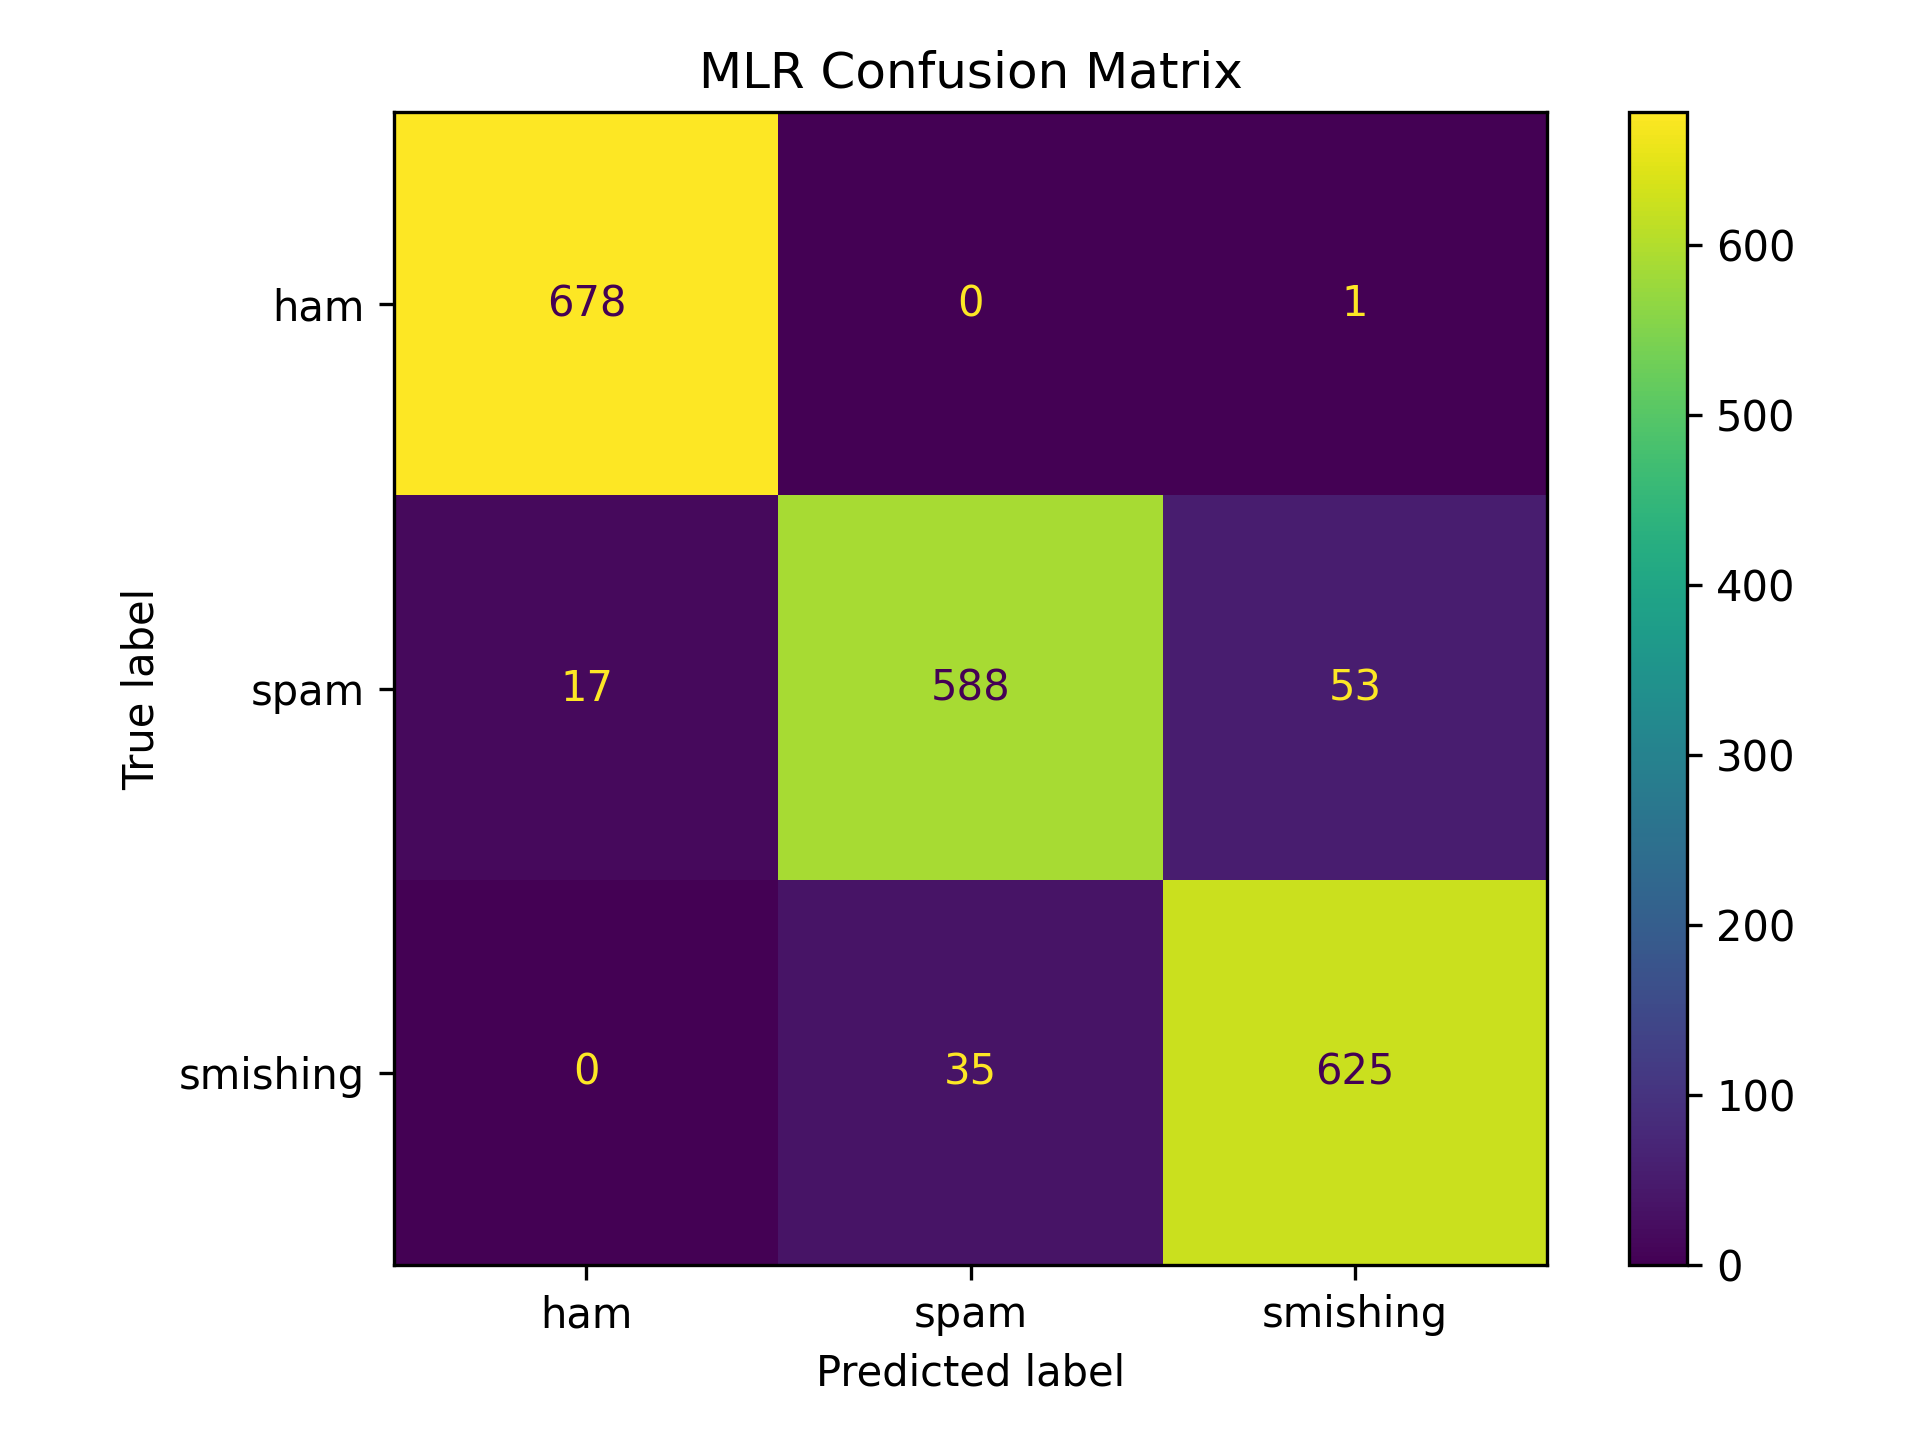
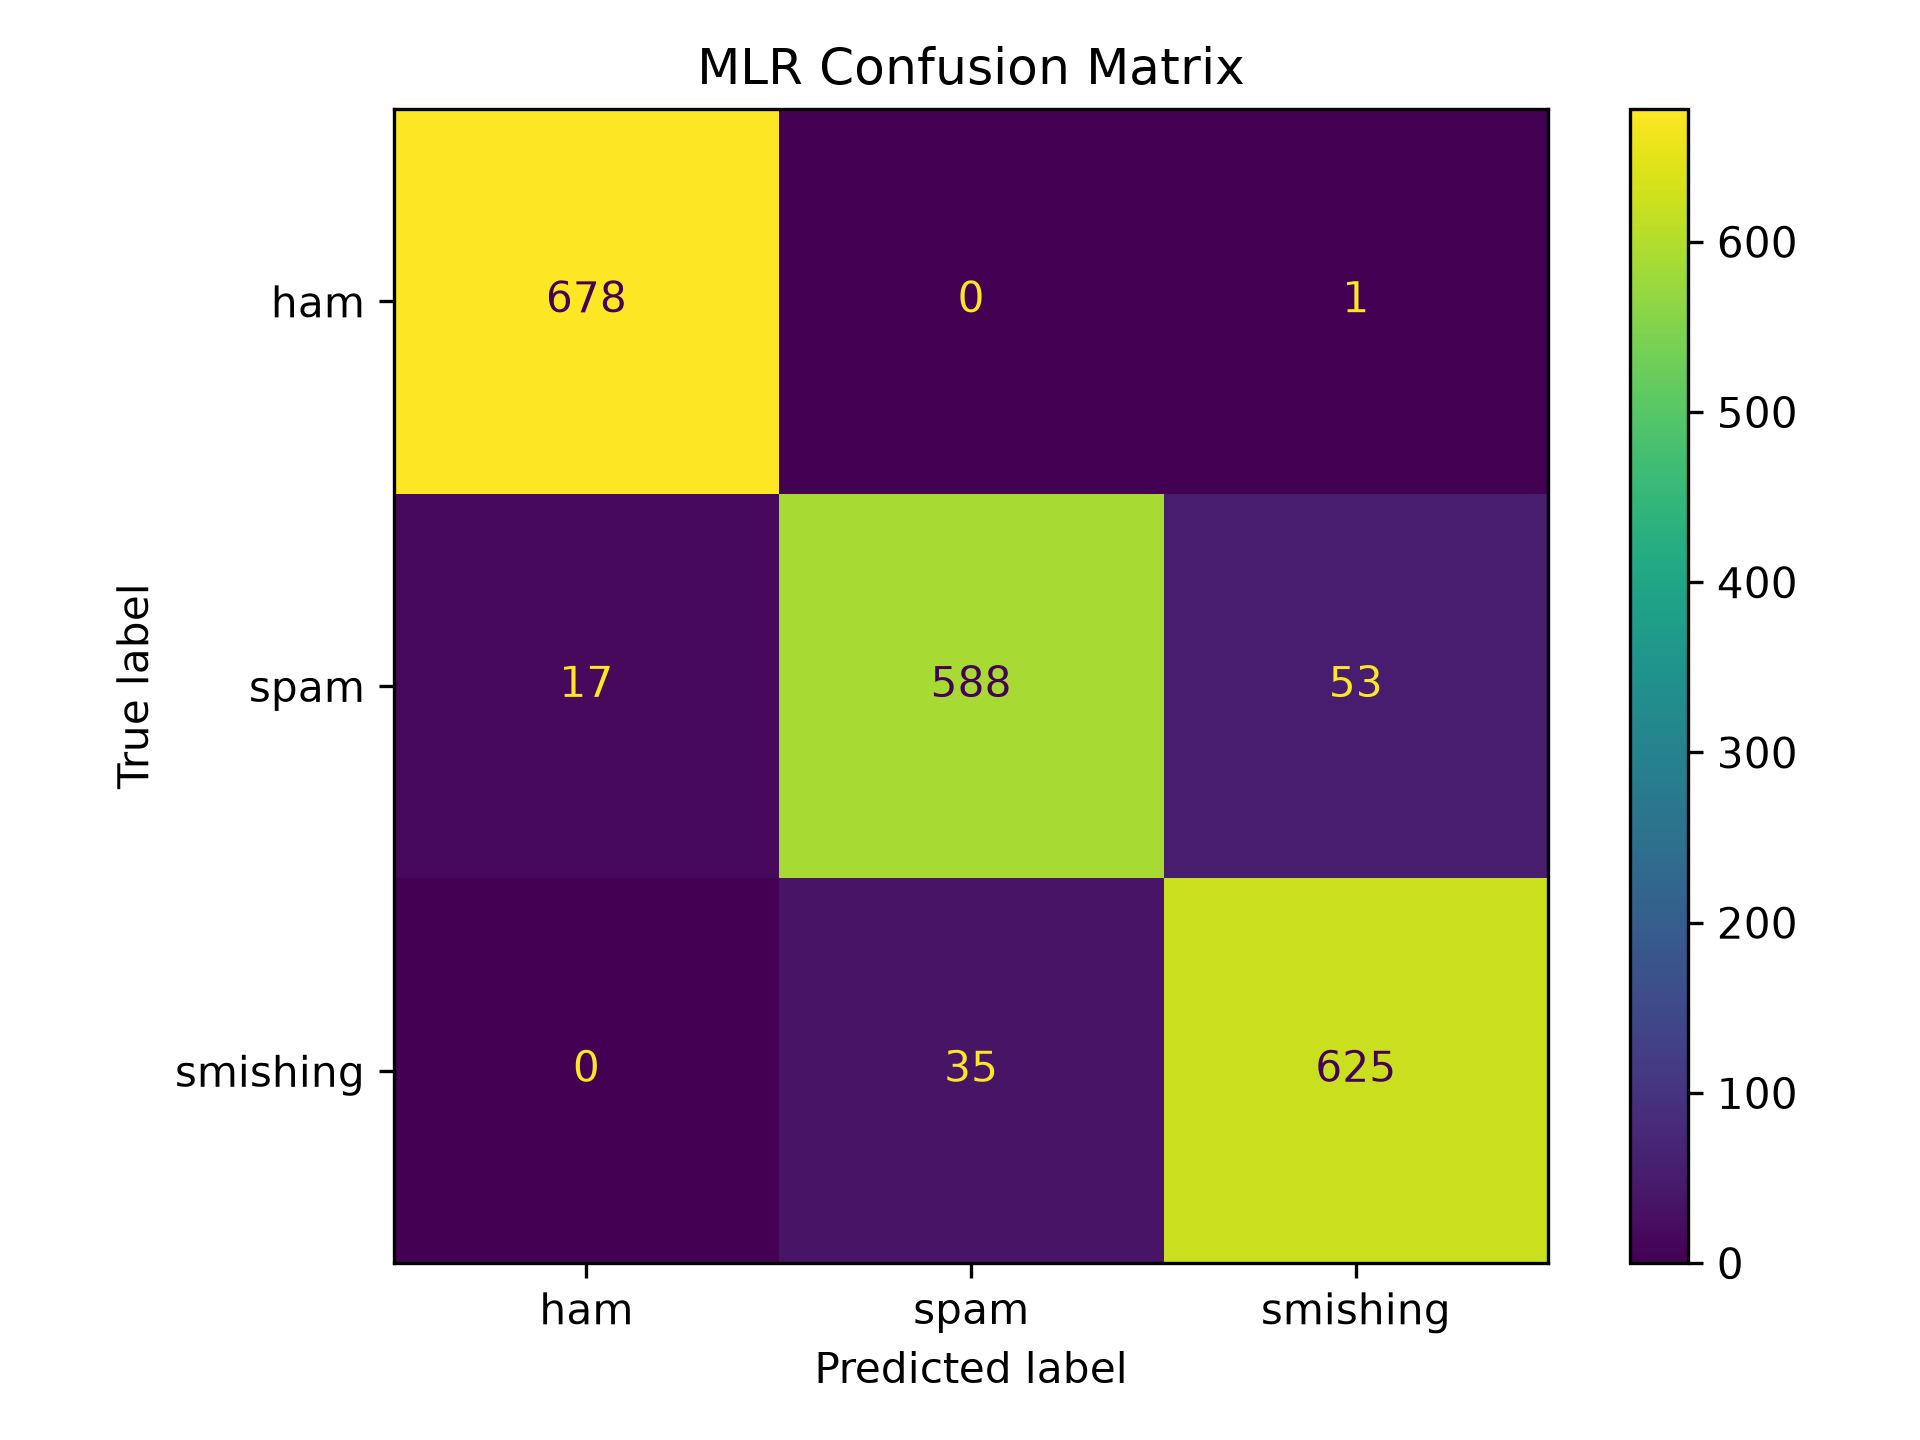
refactor(app): remove unused functions and improve dataframe display settings in Streamlit app

diff --git a/app/streamlit_app.py b/app/streamlit_app.py
@@ -9,7 +9,6 @@ import numpy as np
 import pandas as pd
 import shap
 import streamlit as st
-from scipy import sparse
 
 PROJECT_ROOT = Path(__file__).resolve().parents[1]
 sys.path.append(str(PROJECT_ROOT))
@@ -17,6 +16,7 @@ sys.path.append(str(PROJECT_ROOT))
 from src.config import MLR_PIPELINE_PATH, SHAP_BACKGROUND_SIZE, SHAP_LOCAL_TOP_N, TRAIN_SPLIT_PATH
 from src.features import get_feature_names, prepare_feature_dataframe
 from src.predict import build_input_dataframe, load_pipeline, predict_sms
+from src.shap_utils import clean_feature_name, get_row_shap_values, to_dense
 
 
 TOP_N_FEATURES = SHAP_LOCAL_TOP_N
@@ -27,19 +27,6 @@ st.set_page_config(
     page_icon="logo.png",
     layout="centered",
 )
-
-
-def to_dense(matrix) -> np.ndarray:
-    """Convert sparse matrix to dense."""
-    if sparse.issparse(matrix):
-        return matrix.toarray()
-
-    return np.asarray(matrix)
-
-
-def clean_feature_name(feature_name: str) -> str:
-    """Remove transformer prefix."""
-    return feature_name.split("__", 1)[1] if "__" in feature_name else feature_name
 
 
 @st.cache_resource
@@ -78,22 +65,6 @@ def build_shap_explainer():
     background_matrix = to_dense(transformer.transform(background_df))
 
     return shap.LinearExplainer(model, background_matrix)
-
-
-def get_row_shap_values(shap_values, class_index: int) -> np.ndarray:
-    """Extract one-row SHAP values for selected class."""
-    if isinstance(shap_values, list):
-        return shap_values[class_index][0]
-
-    shap_array = np.asarray(shap_values)
-
-    if shap_array.ndim == 3 and shap_array.shape[0] == 1:
-        return shap_array[0, :, class_index]
-
-    if shap_array.ndim == 3:
-        return shap_array[class_index, 0, :]
-
-    return shap_array[0]
 
 
 def get_local_shap_explanation(
@@ -168,7 +139,7 @@ def display_probabilities(probabilities: dict[str, float]) -> None:
         }
     )
 
-    st.dataframe(probabilities_df, width='stretch', hide_index=True)
+    st.dataframe(probabilities_df, width="stretch", hide_index=True)
     st.bar_chart(probabilities_df.set_index("Class"))
 
 
@@ -181,7 +152,7 @@ def display_detected_features(features: dict[str, int]) -> None:
         }
     )
 
-    st.dataframe(feature_df, width='stretch', hide_index=True)
+    st.dataframe(feature_df, width="stretch", hide_index=True)
 
 
 def analyze_message(message: str) -> None:
@@ -220,7 +191,7 @@ def analyze_message(message: str) -> None:
         st.info("SHAP explanation is unavailable. Make sure the train split and MLR model exist.")
     else:
         st.write("Top features that influenced the predicted class:")
-        st.dataframe(shap_df, width='stretch', hide_index=True)
+        st.dataframe(shap_df, width="stretch", hide_index=True)
 
 
 def main() -> None:

diff --git a/src/train.py b/src/train.py
@@ -33,7 +33,7 @@ from src.features import (
     prepare_target,
     validate_feature_columns,
 )
-from src.utils import ensure_dir, require_file, save_json, series_to_int_dict
+from src.utils import ensure_dir, require_file, save_json, series_to_int_dict, to_relative_path
 
 
 MODEL_CONFIGS = {
@@ -154,7 +154,7 @@ def train_models(
         pipeline.fit(X_train, y_train)
 
         joblib.dump(pipeline, model_path)
-        saved_models[model_name] = str(model_path)
+        saved_models[model_name] = to_relative_path(model_path)
 
         print(f"Saved {model_name.upper()}: {model_path}")
 
@@ -211,7 +211,7 @@ def build_training_summary(
 ) -> dict:
     """Build training metadata."""
     return {
-        "input_dataset": str(input_path),
+        "input_dataset": to_relative_path(input_path),
         "split_strategy": split_strategy,
         "test_size": float(test_size),
         "random_state": RANDOM_STATE,
@@ -226,9 +226,9 @@ def build_training_summary(
         ),
         "saved_models": saved_models,
         "files": {
-            "train_split": str(train_split_path),
-            "test_split": str(test_split_path),
-            "training_summary": str(summary_path),
+            "train_split": to_relative_path(train_split_path),
+            "test_split": to_relative_path(test_split_path),
+            "training_summary": to_relative_path(summary_path),
         },
     }
 
